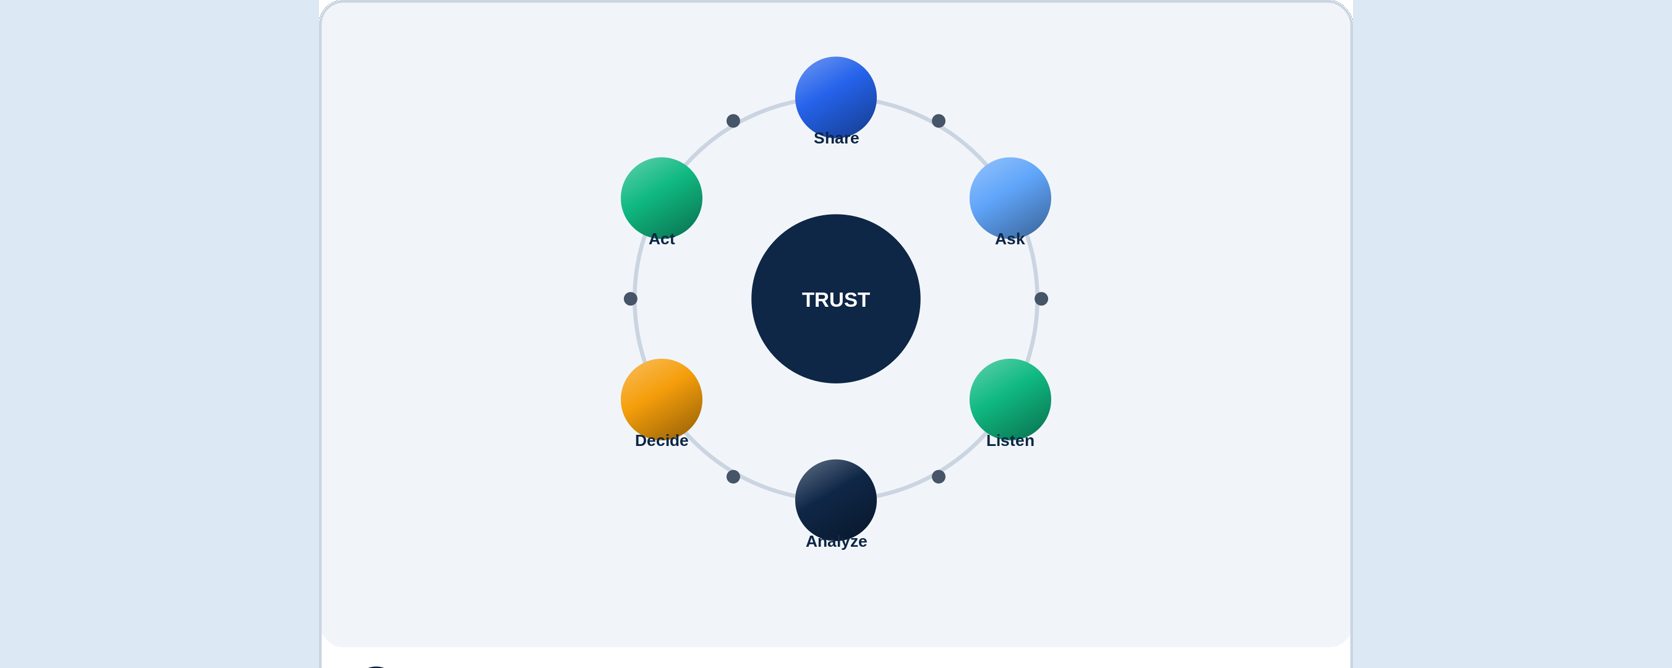
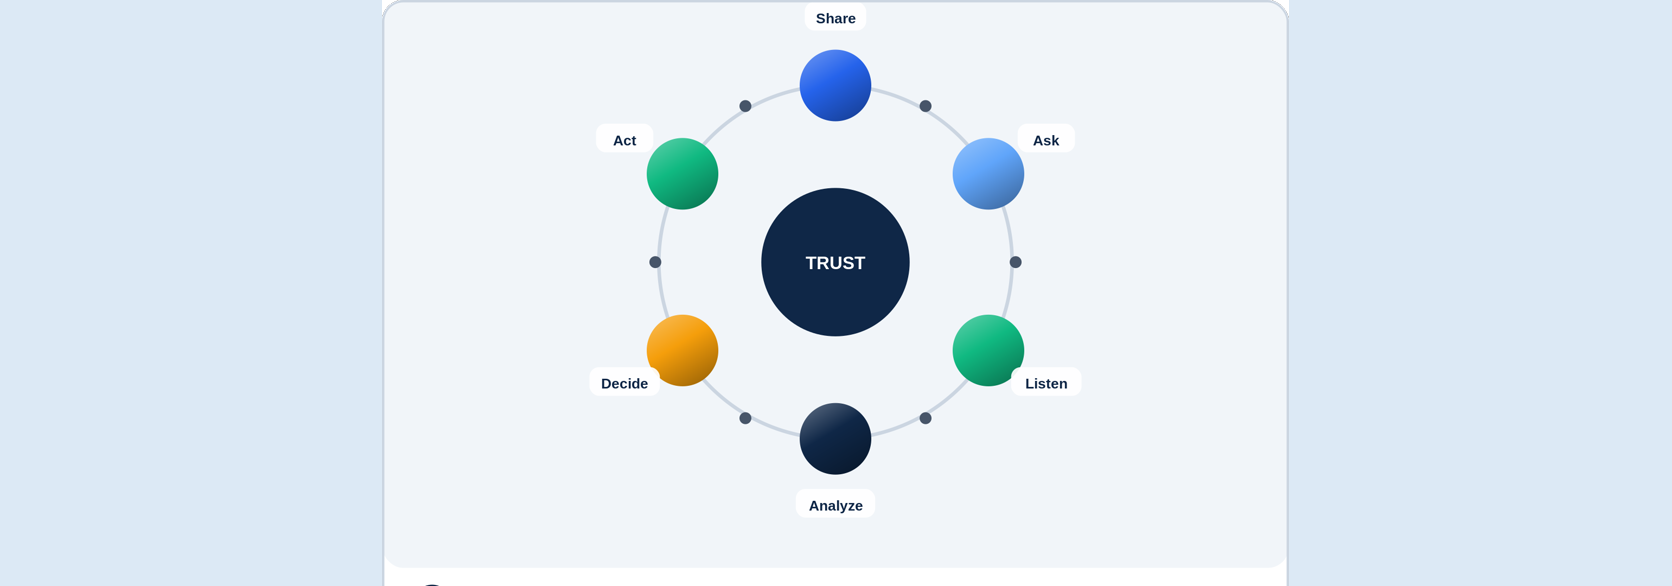
refactor: improve user interface

diff --git a/apps/web/src/routes/HomePage.tsx b/apps/web/src/routes/HomePage.tsx
@@ -317,17 +317,17 @@ export function TopNav() {
  */
 function HeroSlideshow() {
   const frames = [
-    '/designs/01_hero_cover.png?v=6',
-    '/designs/02_government_listening.png?v=6',
-    '/designs/03_university_consultation.png?v=6',
-    '/designs/04_ngo_engagement.png?v=6',
-    '/designs/05_community_participation.png?v=6',
-    '/designs/06_issue_reporting.png?v=6',
-    '/designs/07_consultation_lifecycle.png?v=6',
-    '/designs/08_representatives_engage.png?v=6',
-    '/designs/09_trust_transparency.png?v=6',
-    '/designs/10_data_impact.png?v=6',
-    '/designs/14_future_together.png?v=6',
+    '/designs/01_hero_cover.png?v=7',
+    '/designs/02_government_listening.png?v=7',
+    '/designs/03_university_consultation.png?v=7',
+    '/designs/04_ngo_engagement.png?v=7',
+    '/designs/05_community_participation.png?v=7',
+    '/designs/06_issue_reporting.png?v=7',
+    '/designs/07_consultation_lifecycle.png?v=7',
+    '/designs/08_representatives_engage.png?v=7',
+    '/designs/09_trust_transparency.png?v=7',
+    '/designs/10_data_impact.png?v=7',
+    '/designs/14_future_together.png?v=7',
   ];
   const [idx, setIdx] = useState(0);
 
@@ -587,10 +587,10 @@ function Manifesto() {
   const { t } = useTranslation();
   const actorKeys = ['governments', 'universities', 'ngos', 'communities'] as const;
   const actorImages: Record<(typeof actorKeys)[number], string> = {
-    governments: '/designs/02_government_listening.png?v=6',
-    universities: '/designs/03_university_consultation.png?v=6',
-    ngos: '/designs/04_ngo_engagement.png?v=6',
-    communities: '/designs/05_community_participation.png?v=6',
+    governments: '/designs/02_government_listening.png?v=7',
+    universities: '/designs/03_university_consultation.png?v=7',
+    ngos: '/designs/04_ngo_engagement.png?v=7',
+    communities: '/designs/05_community_participation.png?v=7',
   };
   const beliefKeys = ['one', 'two', 'three', 'four', 'five'] as const;
   return (
@@ -698,19 +698,19 @@ function Stories() {
   const stories = [
     {
       key: 'issues',
-      img: '/designs/06_issue_reporting.png?v=6',
+      img: '/designs/06_issue_reporting.png?v=7',
       title: 'Report an issue in your community',
       body: 'Broken streetlight, uncollected refuse, potholes. Citizens file it once, everyone sees it, and the right office is on the hook.',
     },
     {
       key: 'consultations',
-      img: '/designs/07_consultation_lifecycle.png?v=6',
+      img: '/designs/07_consultation_lifecycle.png?v=7',
       title: 'Consultations that close the loop',
       body: 'Public bodies open a window, gather structured input, then publish the outcome. No inbox black holes.',
     },
     {
       key: 'reps',
-      img: '/designs/08_representatives_engage.png?v=6',
+      img: '/designs/08_representatives_engage.png?v=7',
       title: 'Representatives on the record',
       body: 'Every response, every promise, every no-show — tracked in one place your constituency can read.',
     },
@@ -903,7 +903,7 @@ function CTA() {
         </div>
         <img
           className="home-cta-visual"
-          src="/designs/14_future_together.png?v=6"
+          src="/designs/14_future_together.png?v=7"
           alt=""
           loading="lazy"
           width={1672}

diff --git a/apps/web/src/index.css b/apps/web/src/index.css
@@ -2217,9 +2217,18 @@ button {
   font-size: 0.68rem;
   letter-spacing: 0.18em;
   text-transform: uppercase;
-  color: var(--pr-ink-soft);
+  /* Blue by default so it reads as an active "stamp" — same civic
+     tone the article numbers use. Reverts to dark ink on hover for
+     the interactive feedback (see .home-section-marker:hover). */
+  color: var(--pr-stamp);
   text-align: center;
   margin: 0 auto 1.1rem;
+  transition: color 180ms ease;
+  cursor: default;
+}
+
+.home-section-marker:hover {
+  color: var(--pr-ink);
 }
 
 .home-section-head {
@@ -2281,9 +2290,17 @@ button {
   font-size: 0.66rem;
   letter-spacing: 0.18em;
   text-transform: uppercase;
-  color: var(--pr-stamp);
+  /* Explicit Civic Blue at rest so this eyebrow matches the article
+     title colour tone in the neighbouring section. Falls back to
+     --pr-cyan via the theme; hex fallback in case a nested override
+     is fighting the token. */
+  color: var(--pr-cyan, #38bdf8);
   font-weight: 600;
   margin: 0;
+  transition: color 180ms ease;
+}
+.home-party:hover .home-party-role {
+  color: var(--pr-ink);
 }
 
 .home-party-title {
@@ -4903,7 +4920,10 @@ button {
      separate them without butting flush. */
   margin-top: 1rem;
   margin-bottom: 2.5rem;
-  aspect-ratio: 2.5 / 1;
+  /* Slightly wider aspect than the source (2.5:1) — crops ~5% off
+     top+bottom via object-fit: cover, keeps feet/heads intact.
+     Container is ~450px tall on a 1400px viewport vs 560px before. */
+  aspect-ratio: 2.85 / 1;
   overflow: hidden;
   animation: pr-rise 640ms 100ms cubic-bezier(0.2, 0.7, 0.2, 1) both;
 }

diff --git a/apps/web/src/routes/ConsultationsPage.tsx b/apps/web/src/routes/ConsultationsPage.tsx
@@ -99,7 +99,7 @@ export function ConsultationsPage() {
       {!listQuery.isLoading && items.length === 0 && (
         <EmptyState
           icon={<MessageSquare size={20} />}
-          illustration="/designs/07_consultation_lifecycle.png?v=6"
+          illustration="/designs/07_consultation_lifecycle.png?v=7"
           title={t('consultationsPage.empty.title')}
           body={t('consultationsPage.empty.body')}
         />

diff --git a/apps/web/src/routes/IssuesPage.tsx b/apps/web/src/routes/IssuesPage.tsx
@@ -223,7 +223,7 @@ export function IssuesPage() {
           <div className="mt-6">
             <EmptyState
               icon={<Megaphone className="h-5 w-5" />}
-              illustration={hasFilters ? undefined : '/designs/06_issue_reporting.png?v=6'}
+              illustration={hasFilters ? undefined : '/designs/06_issue_reporting.png?v=7'}
               title={
                 hasFilters
                   ? t('issuesPage.empty.noMatch')

diff --git a/apps/web/src/routes/NotificationsPage.tsx b/apps/web/src/routes/NotificationsPage.tsx
@@ -88,7 +88,7 @@ export function NotificationsPage() {
           <div className="mt-4">
             <EmptyState
               icon={<Bell className="h-5 w-5" />}
-              illustration="/designs/14_future_together.png?v=6"
+              illustration="/designs/14_future_together.png?v=7"
               title={t('notificationsPage.empty')}
             />
           </div>

diff --git a/apps/web/src/routes/RepresentativesPage.tsx b/apps/web/src/routes/RepresentativesPage.tsx
@@ -70,7 +70,7 @@ export function RepresentativesPage() {
       ) : reps.length === 0 ? (
         <EmptyState
           icon={<Users className="h-5 w-5" />}
-          illustration="/designs/08_representatives_engage.png?v=6"
+          illustration="/designs/08_representatives_engage.png?v=7"
           title={t('representativesPage.empty')}
         />
       ) : (